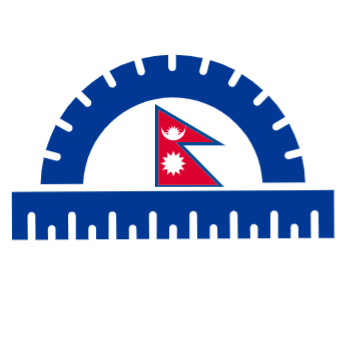
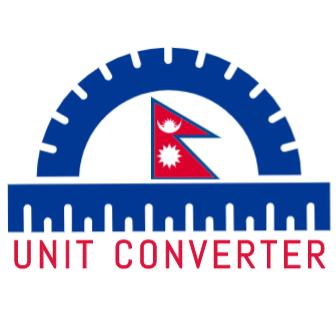
manage assets

Changed region(s): [[0.0, 0.119, 1.0, 0.8036]]

diff --git a/components/customDrawerContent.js b/components/customDrawerContent.js
@@ -12,7 +12,7 @@ export default function CustomDrawerContent(props) {
 			<View style={styles.drawerHeader}>
 				<Image
 					style={styles.drawerImage}
-					source={require("../assets/icon2.png")}
+					source={require("../assets/icon.png")}
 				/>
 				<Text style={styles.drawerHeaderTitle}>
 					Nepali Unit Converter
